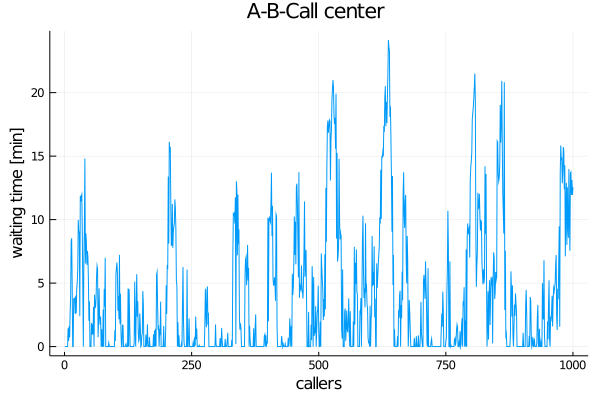
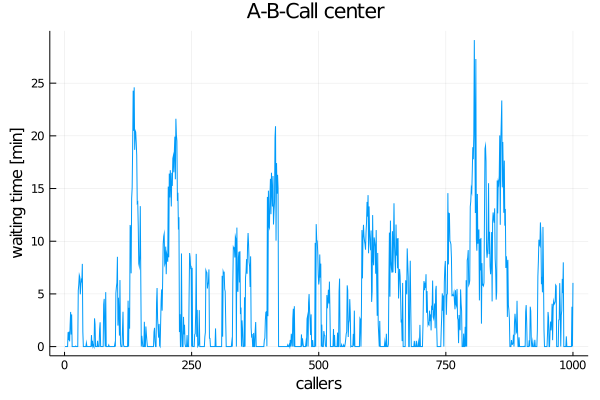
update examples and docs

diff --git a/docs/src/intro.md b/docs/src/intro.md
@@ -67,12 +67,12 @@ end
 We have two events: `customer` and `replenishment` happening in two interacting Poisson processes:
 
 ```julia
-function customer(c::Clock, s::Station, A::Distribution, X::Distribution)
+function customer(c::Clock, s::Station, X::Distribution)
     function fuel(s::Station, x::Float64)
         s.q -= x             # take x from tank
         push!(s.t, c.time)   # record time, amount, customer, sale
         push!(s.qt, s.q)
-        s.cs += 1
+        s.cs += 1            
         s.qs += x
     end
 
@@ -86,10 +86,9 @@ function customer(c::Clock, s::Station, A::Distribution, X::Distribution)
         s.cl += 1            # count the lost customer
         s.ql += x            # count the lost demand
     end
-    event!(c, fun(customer, c, s, A, X), after, rand(A))
 end
 
-function replenish(c::Clock, s::Station, A::Distribution, Q::Float64)
+function replenish(c::Clock, s::Station, Q::Float64)
     if s.q < a
         push!(s.t, c.time)
         push!(s.qt, s.q)
@@ -97,13 +96,12 @@ function replenish(c::Clock, s::Station, A::Distribution, Q::Float64)
         push!(s.t, c.time)
         push!(s.qt, s.q)
     end
-    event!(c, fun(replenish, c, s, A, Q), after, rand(A))
 end
 ```
 
-We pass our event functions a [`Clock`](@ref) variable, wrap them in a [`fun`](@ref) closure and schedule a repeat [`event!`](@ref) at  their end.
+We pass our event functions a [`Clock`](@ref) variable in order to access the clock's `c.time`.
 
-Now we setup our constants, a simulation environment, schedule our first event functions (with [`event!`](@ref) and [`fun`](@ref)) and [`run!`](@ref) for 5000 virtual minutes:
+Now we setup our constants and variables, wrap the functions in [`fun`](@ref) and schedule them as [`event!`](@ref event!(::CL,::A,::U)  where {CL<:AbstractClock,A<:Action,U<:Number})s and [`run!`](@ref) the clock for 5000 virtual minutes:
 
 ```julia
 Random.seed(123)
@@ -119,8 +117,8 @@ const X = TruncatedNormal(μ, σ, a, Inf)  # demand distribution
 
 clock = Clock()    # create a clock, a fuel station and events
 s = Station(Q, Float64[0.0], Float64[Q], 0, 0, 0.0, 0.0)
-event!(clock, fun(replenish, clock, s, M₂, Q), after, rand(M₂))
-event!(clock, fun(customer, clock, s, M₁, X), after, rand(M₁))
+event!(clock, fun(replenish, clock, s, Q), every, M₂)
+event!(clock, fun(customer, clock, s, X), every, M₁)
 println(run!(clock, 5000))   # run the clock
 
 @show fuel_sold = s.qs;
@@ -137,7 +135,7 @@ served_customers = s.cs = 1789
 lost_customers = s.cl = 708
 ```
 
-We sold 9 tanks of fuel to 1789 customers. But we could have served 708 more customers and sold nearly 40% more fuel. Clearly we have some improvement potential:
+We sold 9 tanks of fuel to 1789 customers. But we could have served 708 more customers and sell nearly 40% more fuel. Clearly we have some improvement potential:
 
 ```julia
 using Plots
@@ -153,7 +151,7 @@ If we could manage to replenish immediately after the tank is empty, we would be
 
 `DiscreteEvents` also provides process-based simulation. A process is a typical sequence of events. This is particularly useful if we can describe our system in such terms.
 
-One example is a call center with two servers, Able and Baker and a line for incoming calls. Able is more experienced and can provide service faster than Baker. We want to know if the system works and how long customers have to wait [^2].
+One example is a call center with two servers, Able and Baker and a line for incoming calls. Able is more experienced and can provide service faster than Baker. We have some assumptions about arrival and service time distributions. We want to know if the system works and how long customers have to wait [^2].
 
 First we describe some data structures for our system:
 
@@ -178,28 +176,24 @@ We describe the processes in our system as two functions `serve` and `arrive`:
 
 ```julia
 function serve(c::Clock, s::Server, input::Channel, output::Vector{Caller}, limit::Int)
-    call = take!(input)         # take a call
-    call.t₂ = c.time            # record the beginning of service time
-    ts = rand(s.S)              # calculate service time
-    delay!(c, ts)               # delay for service time
-    call.t₃ = c.time            # record the end of service time 
-    s.tbusy += ts               # log service time
-    push!(output, call)         # hang up
-    call.id ≥ limit && stop!(c) # we stop the clock if all is done
+    call = take!(input)           # take a call
+    call.t₂ = c.time              # record the beginning of service time
+    delay!(c, s.S)                # delay for service time
+    call.t₃ = c.time              # record the end of service time 
+    s.tbusy += call.t₃ - call.t₂  # log service time
+    push!(output, call)           # hang up
+    call.id ≥ limit && stop!(c)
 end
 
-function arrive(c::Clock, A::Distribution, input::Channel, N::Int)
-    for i in 1:N
-        delay!(c, rand(A))
-        call = Caller(i, c.time, 0.0, 0.0)
-        put!(input, call)
-    end
+function arrive(c::Clock, input::Channel, count::Vector{Int})
+    count[1] += 1
+    put!(input, Caller(count[1], c.time, 0.0, 0.0))
 end
 ```
 
-We realize our queue as a `Channel` eventually blocking a process if it calls `take!`. Both functions call a [`delay!`](@ref) from the [`Clock`](@ref). This also suspends their process for the required simulation time. Note that the `serve` process [`stop!`](@ref)s the clock after the last caller is finished.
+We implement our caller queue as a `Channel` eventually blocking a process if it calls `take!`. The `serve` function calls a [`delay!`](@ref) from the [`Clock`](@ref). This suspends a process for the required simulation time. Note that the `serve` process [`stop!`](@ref)s the clock after the last caller is finished.
 
-Then we initialize our constants, setup a simulation environment, wrap our functions in a [`Prc`](@ref) and start them as [`process!`](@ref)es and [`run!`](@ref) them:
+Next we initialize our constants, setup a simulation environment, wrap our servers in [`Prc`](@ref) and start them as [`process!`](@ref)es. The arrivals are an event-based Poisson process as in the first example [^3]. We [`run!`](@ref) the clock for enough time:
 
 ```julia
 Random.seed!(123)
@@ -215,25 +209,25 @@ s1 = Server(1, M_a, 0.0)
 s2 = Server(2, M_b, 0.0)
 process!(clock, Prc(1, serve, s1, input, output, N))
 process!(clock, Prc(2, serve, s2, input, output, N))
-process!(clock, Prc(0, arrive, M_arr, input, N), 1) # this runs only once
+event!(clock, fun(arrive, clock, input, count), every, M_arr)
 run!(clock, 5000)
 ```
 
-```
-"run! halted with 2000 clock events, 0 sample steps, simulation time: 2302.09"
+```julia
+"run! halted with 2005 clock events, 0 sample steps, simulation time: 2464.01"
 ```
 
-The clock stopped at 2302. We could serve 1000 callers in 2302 minutes. This is an average lead time of 2.3 min. Doesn't seem so bad.
+The clock stopped at 2464. We served 1000 callers in 2464 minutes. This is an average lead time of 2.5 min. Doesn't seem so bad.
 
 ```julia
 julia> s1.tbusy / clock.time
-0.7255027971799999
+0.7256119737495218
 
 julia> s2.tbusy / clock.time
-0.7392916075330213
+0.7422549861860762
 ```
 
-Also our servers have been busy only about 73% of the time. Could we give them some other work to do? But how about waiting times for callers?
+Also our servers have been busy only about 73% of the time. Could we give them some other work to do? How about waiting times for callers?
 
 ```julia
 using Plots
@@ -244,7 +238,7 @@ savefig("ccenter.png")
 
 ![](img/ccenter.png)
 
-Given the average values, here something unexpected emerges: The responsiveness of our call center is not good and waiting times often get way too long. If we want to shorten them, we must improve our service times or add more servers.
+Given the average values, something unexpected emerges: The responsiveness of our call center is not good and waiting times often get way too long. If we want to shorten them, we must improve our service times or add more servers.
 
 ## Evaluation
 
@@ -256,3 +250,4 @@ You can find more examples at [`DiscreteEventsCompanion`](https://pbayer.github.
 
 [^1]: This is a modified version of example 4.1.1 in Tijms: A First Course in Stochastic Models, Wiley 2003, p 143ff
 [^2]: This is a simplified version of the Able-Baker Call Center Problem in Banks, Carson, Nelson, Nicol: Discrete-Event System Simulation, Pearson 2005, p 35 ff
+[^3]: The different approaches to modeling: event-based and process-based can be combined.

diff --git a/docs/src/news.md b/docs/src/news.md
@@ -27,18 +27,19 @@ multithreading, resource handling and a streamlined documentation.
 ## New functionality in v0.3.0
 
 - [`Action`](@ref) is introduced as synonym for `Union{Function,Expr,Tuple}`,
-- thereby in addition to `fun`, you can now schedule arbitrary function closures as events,  
+- thereby in addition to [`fun`](@ref), you can now schedule arbitrary function closures as events,  
 - [`periodic!`](@ref) takes an `Action` as argument,
 - you can pass also symbols, expressions or other `fun`s or function closures as arguments to [`fun`](@ref). They get evaluated at event time before being passed to the event function,
 - [`DiscreteEvents.version`](@ref) gives now the package version,
 - `DiscreteEvents.jl` is now much faster due to optimizations,
 - [`onthread`](@ref) allows simulations with asynchronous tasks (processes and actors) to run much faster on threads other than 1,
 - [`Resource`](@ref) provides an API for modeling limited resources,
-- you can now create a real time clock [`RTClock`](@ref) and schedule events to it,
+- you can now create a real time clock [`RTClock`](@ref) and schedule events to it (experimental),
 - actors can register their message channels to the `clock.channels` vector and the clock will not proceed before they are empty,
-- processes and actors (asynchronous tasks) can transfer IO-operations to the clock with [`now!`](@ref) or print directly via the clock.
+- processes and actors (asynchronous tasks) can transfer IO-operations to the clock with [`now!`](@ref) or print directly via the clock,
+- `event!` and `delay!` now also accept stochastic time variables (`Distribution`).
 
-### Multithreading (still in the making)
+### Multithreading (experimental)
 
 - The data structure of [`Clock`](@ref) has been changed, it now has a field `ac` providing channels to parallel clocks,  
 - [`PClock`](@ref) sets up a clock with parallel active clocks on each available thread,

diff --git a/docs/src/events.md b/docs/src/events.md
@@ -44,7 +44,7 @@ Actions can be scheduled as events at given times:
 
 ```@docs
 Timing
-event!(::CL,::A,::U)  where {CL<:AbstractClock,A<:Action,U<:Number,V<:Number}
+event!(::CL,::A,::U)  where {CL<:AbstractClock,A<:Action,U<:Number}
 ```
 
 ## Conditional events
@@ -100,3 +100,17 @@ ii()                            # g gets an updated x
 ```
 
 If you want to modify a global variable, you have to use the `global` keyword inside your function.
+
+## Time units
+
+Timed events can be scheduled with time units. Times are converted to the clock's time unit.
+
+```@repl events
+using Unitful
+import Unitful: s, minute, hr
+c = Clock()
+event!(c, fun(f, a), 1s)
+setUnit!(c, s)
+event!(c, fun(f, a), 1minute)
+event!(c, fun(f, a), after, 1hr)
+```

diff --git a/docs/src/clocks.md b/docs/src/clocks.md
@@ -117,7 +117,7 @@ resume!
 sync!
 ```
 
-## Units
+## Time units
 
 You can set time units of a virtual clock:
 
